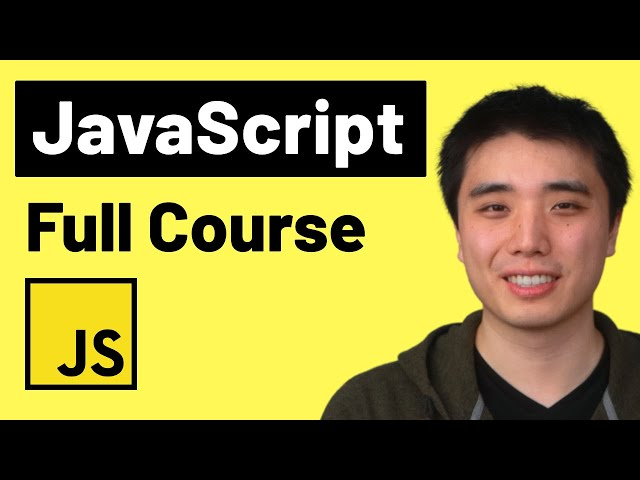
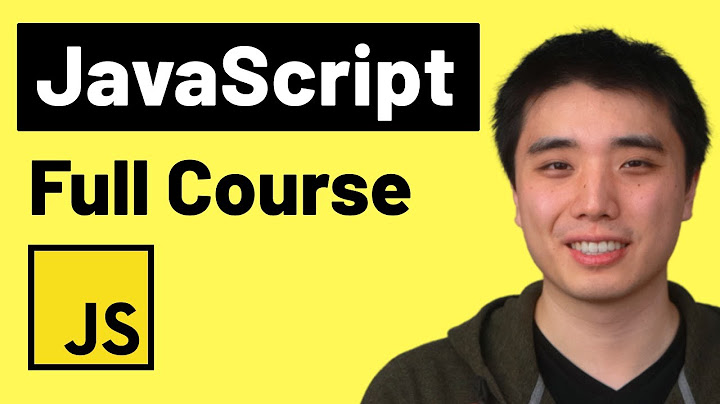
cap not finished

diff --git a/JavaScript.html b/JavaScript.html
@@ -25,12 +25,20 @@
             </nav>
         </header>
 
-        <section class="languageRepertory1">
-            <a href="JavaScript.html" target="_blank">
-                <section class="language1">
-                <img class="Image" src="image/language logo/JSlogo.png" alt="jsfullcourse">
-                    <figcaption>Here you will find all you need to know in JavaScript.</figcaption>
-                </section>
-            </a>
+        <section class="tutoyoutube-line1">
+            <section class="tutoyoutube-colum1">
+                <img class="tutoYoutubeImage" src="image/tutoyoutube/jsfullcourse.jpg" alt="jsfullcourse">
+                <figcaption>This video is part 1 of a JavaScript tutorial and full course that teaches beginners how to build websites using JavaScript, HTML, and CSS. The tutorial covers topics such as JavaScript basics, numbers and math, strings, variables, booleans and if-statements, functions, objects, the Document Object Model (DOM), and more. It is a project-based series that provides exercises to practice the concepts learned and aims to help aspiring software engineers create complex, interactive websites.</figcaption>
+                <button><a href="" target="_blank">See the collection</a></button>
+            </section>
+            <section class="tutoyoutube-colum1">
+                <img class="tutoYoutubeImage" src="image/tutoyoutube/jsfullcourse.jpg" alt="jsfullcourse">
+            </section>
+            <section class="tutoyoutube-colum1">
+                <img class="tutoYoutubeImage" src="image/tutoyoutube/jsfullcourse.jpg" alt="jsfullcourse">
+            </section>
+            <section class="tutoyoutube-colum1">
+                <img class="tutoYoutubeImage" src="image/tutoyoutube/jsfullcourse.jpg" alt="jsfullcourse">
+            </section>
         </section>
     </body>

diff --git a/tuto.css b/tuto.css
@@ -1,0 +1,55 @@
+.tutoyoutube-line1
+{
+    display: flex;
+    margin: 2.5%;
+    padding: 1%;
+
+}
+
+.tutoyoutube-colum1 {
+    width: 41%;
+    border-radius: 20px;
+    border: 3px solid rgb(140, 140, 140);
+}
+
+.tutoYoutubeImage {
+    display: block;
+    width: 50%;
+    margin: auto;
+    border-bottom: 3px solid rgb(140, 140, 140);
+
+}
+
+figcaption {
+    margin: 5%;
+    padding: 3%;
+}
+
+.Image {
+    display: block;
+    padding: 10%;
+    margin: auto;
+    width: 25%;
+}
+
+.language1 {
+    width: 25%;
+    margin: 5%;
+    padding: 1%;
+    border: 3px solid rgb(140, 140, 140);
+}
+
+.languageRepertory{
+
+}
+
+.language1 figcaption{
+
+}
+
+.tutoyoutube-line1 button {
+    display: block;
+    margin: auto;
+    padding: 1%;
+    color: #6c6969;
+}

diff --git a/general.css b/general.css
@@ -1,0 +1,6 @@
+@import url('https://fonts.googleapis.com/css2?family=Nova+Square&display=swap');
+
+
+body {
+    font-family: 'Nova Square', sans-serif;
+}
